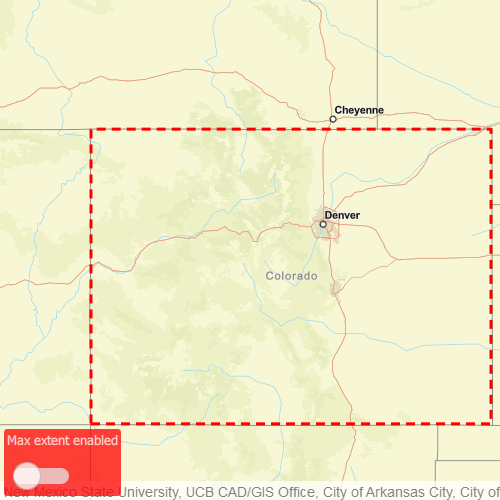
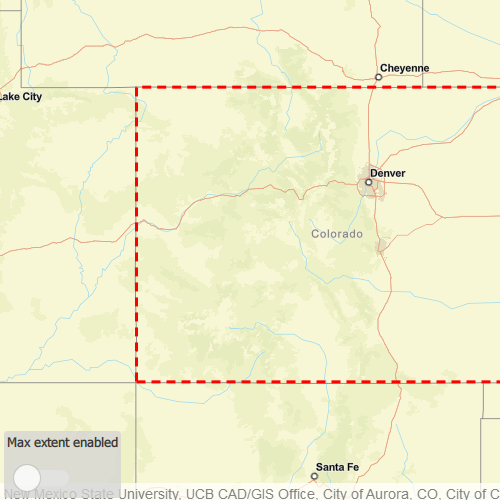
Update UI switch colors to match the sample viewer

diff --git a/ArcGISRuntimeSDKQt_QMLSamples/Maps/SetMaxExtent/SetMaxExtent.qml b/ArcGISRuntimeSDKQt_QMLSamples/Maps/SetMaxExtent/SetMaxExtent.qml
@@ -94,13 +94,13 @@ Rectangle {
         }
         width: childrenRect.width
         height: childrenRect.height
-        color: "#ff0000"
+        color: "#D3D3D3"
         opacity: .75
         radius: 3
 
         ColumnLayout {
             Text {
-                color: "#ffffff"
+                color: "#000000"
                 text: "Max extent enabled"
                 Layout.fillWidth: true
                 Layout.margins: 3

diff --git a/ArcGISRuntimeSDKQt_CppSamples/Maps/SetMaxExtent/SetMaxExtent.qml b/ArcGISRuntimeSDKQt_CppSamples/Maps/SetMaxExtent/SetMaxExtent.qml
@@ -40,13 +40,13 @@ Item {
         }
         width: childrenRect.width
         height: childrenRect.height
-        color: "#ff0000"
+        color: "#D3D3D3"
         opacity: .75
         radius: 3
 
         ColumnLayout {
             Text {
-                color: "#ffffff"
+                color: "#000000"
                 text: "Max extent enabled"
                 Layout.fillWidth: true
                 Layout.margins: 3
